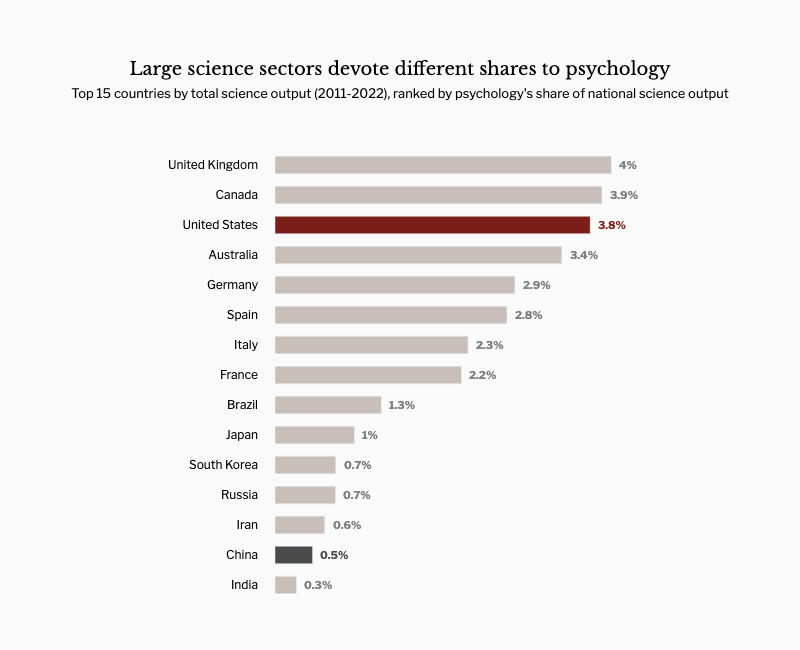
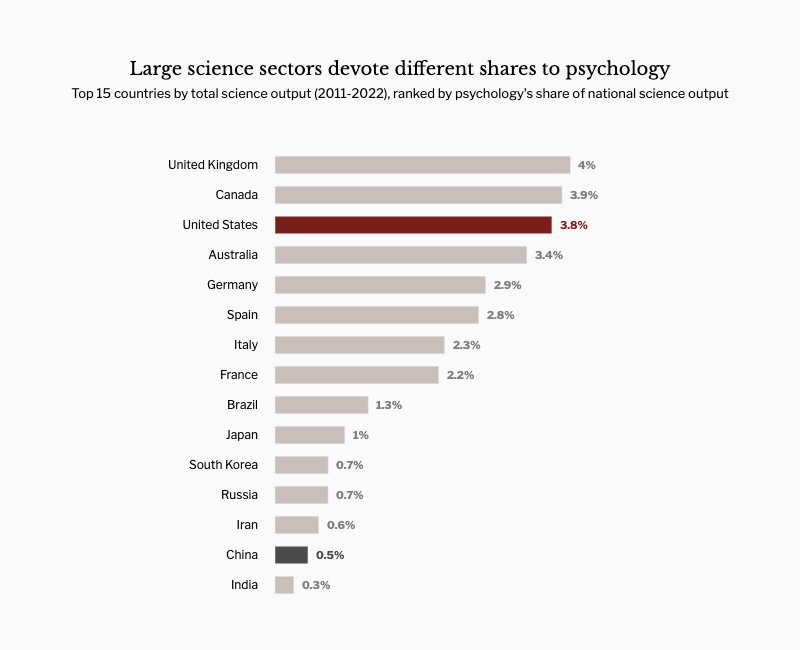
increase right margin on rank plot for site

diff --git a/docs/chart-data.js b/docs/chart-data.js
@@ -330,7 +330,7 @@ window.CHART_SPECS = [
     ],
     "domain": [
       0.25,
-      0.99
+      0.9
     ]
   },
   "yaxis": {
